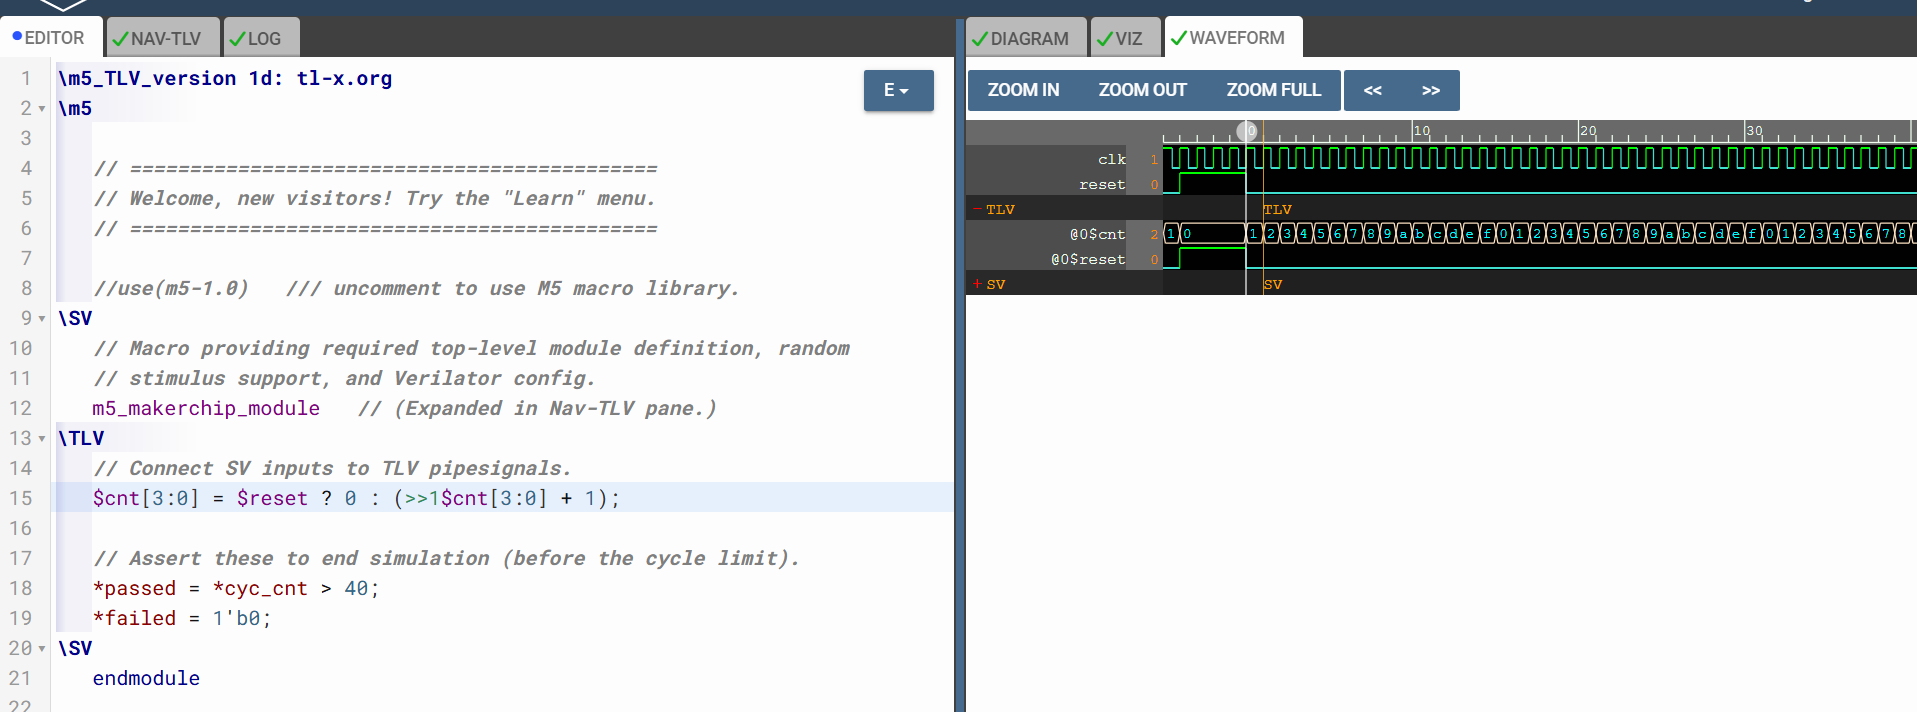
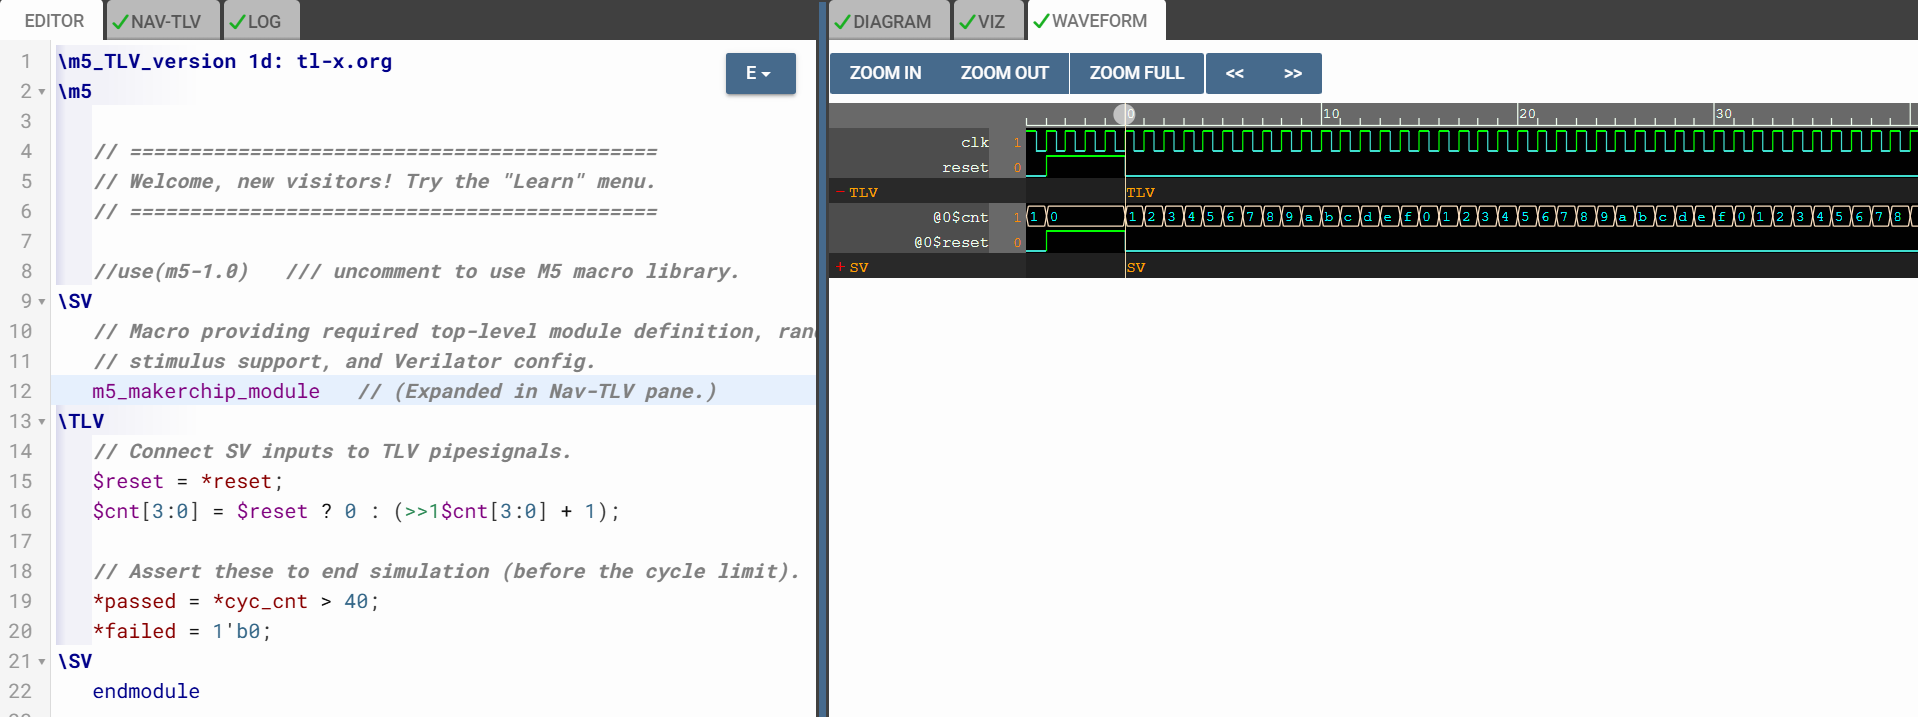
Add updated L22

Changed region(s): [[0.0, 0.0, 1.0, 1.0], [0.0308, 0.1854, 0.3385, 0.3399]]

diff --git a/day3/21-RV_D3SK2_L1_Introduction_To_Sequential_Logic_And_Counter_Lab.md b/day3/21-RV_D3SK2_L1_Introduction_To_Sequential_Logic_And_Counter_Lab.md
@@ -173,6 +173,8 @@ every clock cycle.
 
 ![Counter](images/lec21/Counter.png)
 
+[Click Here To Open the Counter in Makerchip](https://makerchip.com/v132/ide/~0gJflhzE/p-0lOho2)
+
 ---
 
 # Hardware Perspective
